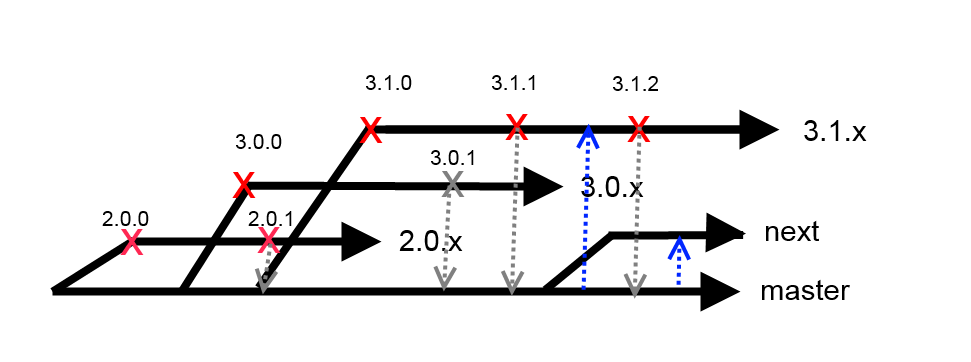
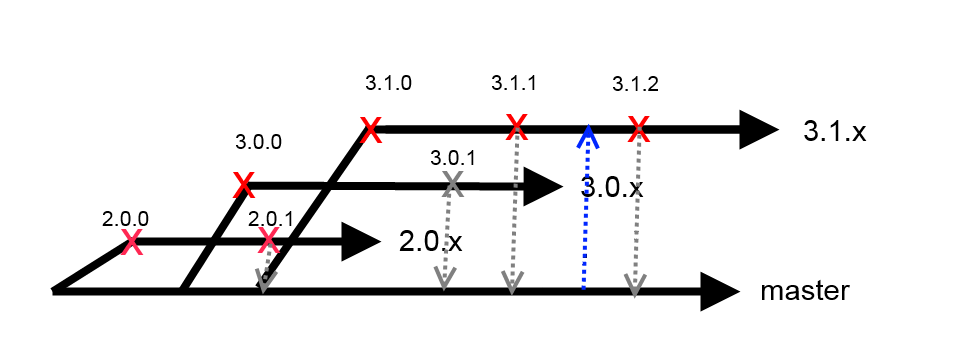
Updated branching docs

Changed region(s): [[0.5561, 0.5773, 0.8651, 0.7901]]

diff --git a/development/branches.md b/development/branches.md
@@ -7,9 +7,8 @@ title: Liquibase Code Branches
 
 Liquibase uses a branching strategy using the following long-lived branches:
 
-* master: Used only as a merge path. Never committed to directly
-* next: Corresponds to code that will be released as part of the next major release.
-* "#.#.x". Each major release such as "3.1" gets a branch for itself and its patch releases. For example, the 3.1.0 release will be the start of the "3.1.x" branch
+* master: Corresponds to the next non-patch release in progress
+* "#.#.x". Each non-patch release such as "3.1" gets a branch for itself and its patch releases. For example, the 3.1.0 release will be the start of the "3.1.x" branch
 
 Individual features and bug fixes should be developed in their own short-lived feature branches with a pull request to incorporate them into the main repository branches.
 For more information on pull requests and GitHub usage, see [contributing to Liquibase](contribute.html).
@@ -20,7 +19,7 @@ As part of each release, the releasing branch will be tagged with the actual ver
 
 When working on a bug or feature, the code should based off the branch corresponding to the furthest back version family that will include the change.
 
-So if you are ok with the change only going into the next release, branch off "next". If you are using version 3.1.2 and need the change in an upcoming 3.1 release, branch off "3.1.x".
+So if you are ok with the change only going into the next release, branch off "master". If you are using version 3.0.2 and need the change in an upcoming 3.0 patch release, branch off "3.1.x".
 
 If you have questions, [help is available](../community/index.html).
 
@@ -28,13 +27,13 @@ If you have questions, [help is available](../community/index.html).
 
 ### Example Workflow
 
-Starting state: there are 3 active branches: "next", "3.0.x", and "3.1.x". 3.0.3 and 3.1.2 are the most recent releases in the previous release families.
+Starting state: there are 3 active branches: "master", "3.0.x", and "3.1.x". 3.0.3 and 3.1.2 are the most recent releases in the previous release families.
 
-Because 3.1 has been released, most development is occurring off the "next" branch. Features are developed in fork branches off "next" and when they are done, pull requests are created and accepted into next.
+Because 3.1 has been released, most development is occurring off the "master" branch. Features are developed in fork branches off "master" and when they are done, pull requests are created and accepted into master.
 
 If a bug is found that needs to be fixed in a 3.1, it is worked on in a branch off 3.1 and when it is done a pull request is created and accepted into the 3.1.x branch.
 
-When we are ready to have a 3.1.3 release, the 3.1.x branch is tagged as "3.1.3" and then merged into "master" and "next".
+When we are ready to have a 3.1.3 release, the 3.1.x branch is tagged as "3.1.3" and then merged into "master".
 
-When we are ready to release the code in "next" and a version number is decided on such as 3.2, the next branch is merged into master for final testing. When all tests pass, a "3.2.x" branch is created and tagged as "3.2.0".
+When we are ready to release the code in "master" and a version number is decided on such as 3.2, a "3.2.x" branch is created for final testing and tagged as "3.2.0" at release time.
 
